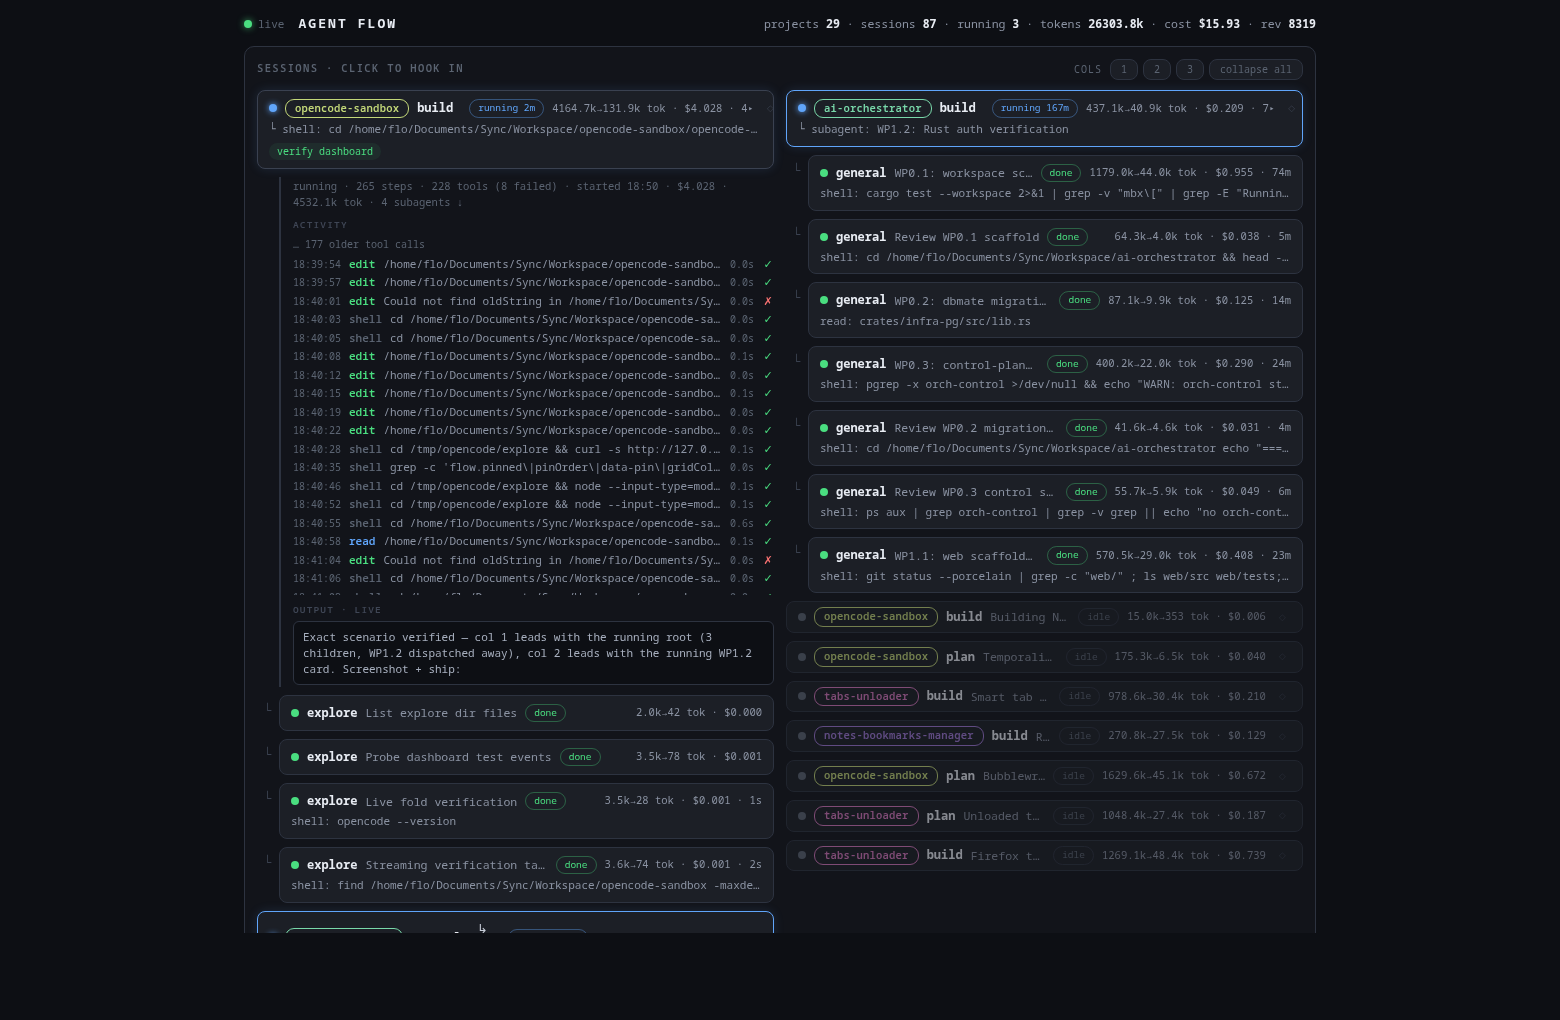
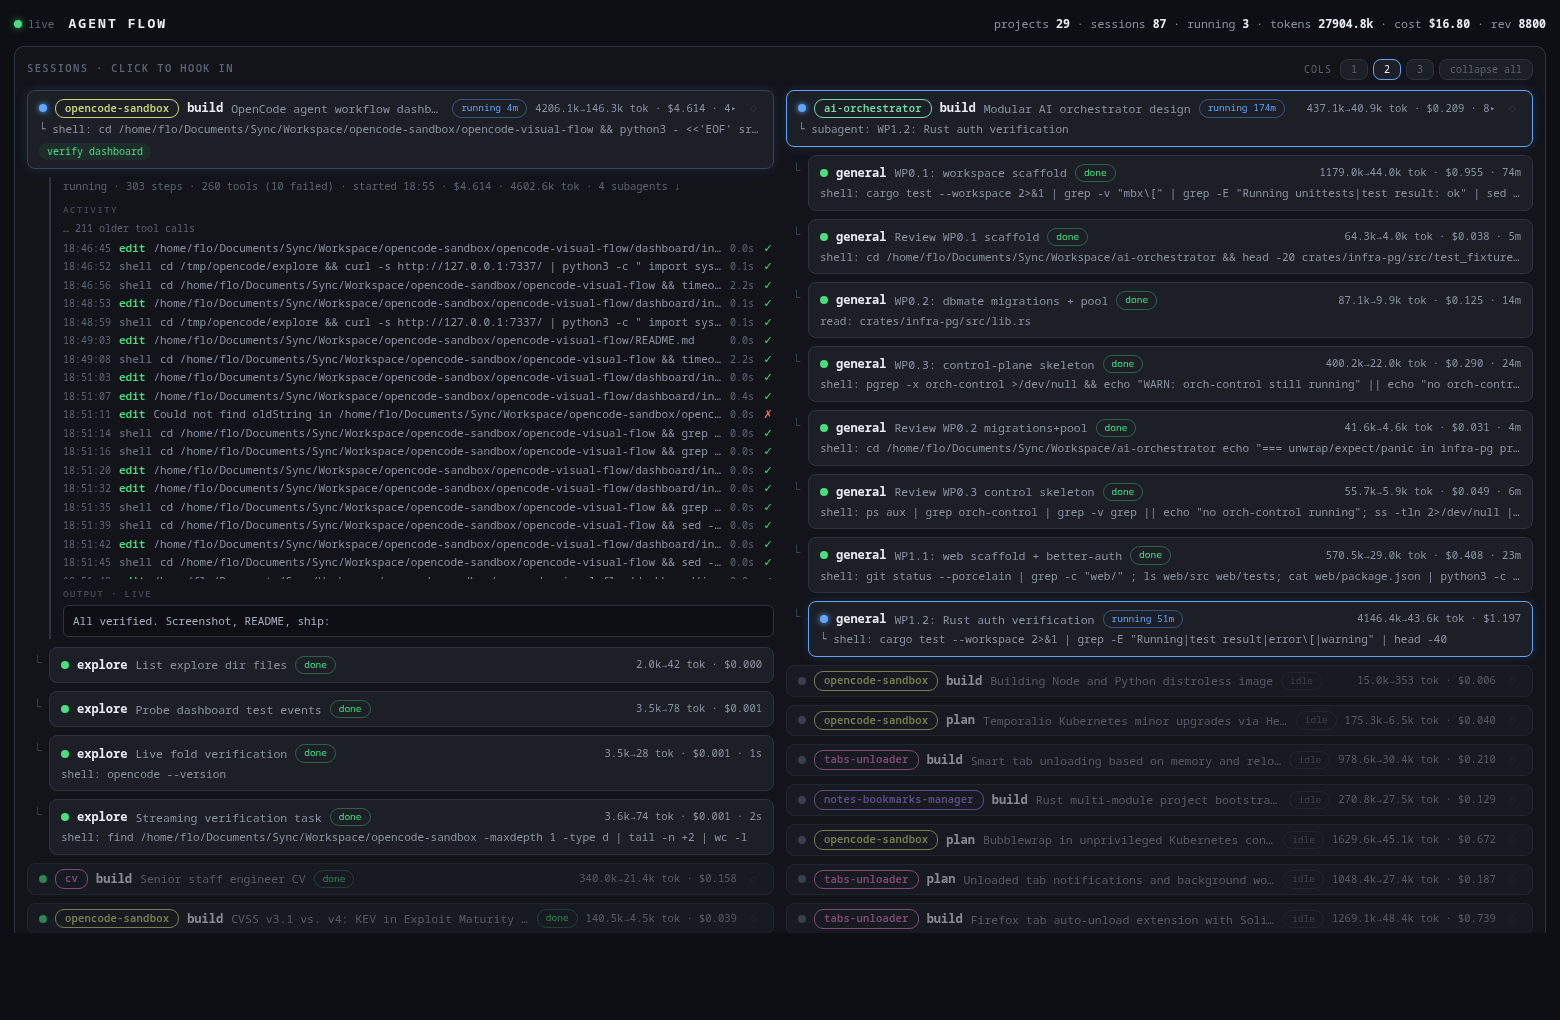
grid: tree-intact dispatch + LIVE runner cards (option 2)
Busy trees are dispatched whole, round-robin onto column tops — a running
subagent stays rendered under its parent instead of being cut into its
own card. Any column whose dispatched block has no running/waiting
session gets a LIVE runner card: a pointer to an uncovered live session
in global order (click = hook into that session's feed). Runners are
mirrors, not moves — the session keeps rendering inside its tree.
Removes the per-running-session card splitting from the previous round.

diff --git a/dashboard/index.html b/dashboard/index.html
@@ -58,6 +58,8 @@
   .chip.idle, .chip.queued { color:#5b6472; }
   .proj { flex:none; font-size:10.5px; font-weight:600; padding:1px 9px; border-radius:9px; border:1px solid;
   .tag { flex:none; font-size:9.5px; color:#8b93a3; border:1px solid #2d3340; border-radius:8px; padding:0 6px; }
+  .tag.live { color:#60a5fa; border-color:rgba(96,165,250,.5); font-weight:600; letter-spacing:.08em; }
+  .row.runner { border-color:#60a5fa; box-shadow:0 0 11px rgba(96,165,250,.14); }
           letter-spacing:.02em; cursor:pointer; max-width:180px; overflow:hidden; text-overflow:ellipsis; white-space:nowrap; }
   .proj.on { outline:1px solid currentColor; }
   .pbar { display:flex; align-items:center; gap:9px; margin-bottom:9px; color:#8b93a3; font-size:11px; }
@@ -399,53 +401,24 @@ function renderList() {
   const chunks = []
   let compactUsed = 0, hiddenOld = 0
 
-  // Split a busy tree into dispatch cards: one per running/waiting session
-  // (session + its non-running descendants), cutting nested running sessions
-  // out as their own cards. Leftover units form the tree's residual chunk.
-  const collectCard = (n, depth) => {
-    const units = [{ n, depth, compact: false }]
-    const cards = []
-    let attached = 0
-    for (const c of (kids.get(n.id) ?? []).slice().sort((a, b) => (a.createdAt ?? 0) - (b.createdAt ?? 0))) {
-      if (isBusyN(c)) {
-        const r = collectCard(c, 0)
-        cards.push(r.units, ...r.cards)
-      } else {
-        const r = collectCard(c, depth + 1)
-        units.push(...r.units)
-        cards.push(...r.cards)
-        attached++
-      }
-    }
-    units[0] = { ...units[0], kidsShown: attached }
-    return { units, cards }
-  }
-  const pushChunk = (units, extra) => {
-    if (!units.length) return
-    const openFeed = units.some(u => expanded.has(u.n.id))
-    const detached = !!extra?.detached
-    chunks.push({
-      units: units.map(u => ({ ...u, detached })),
-      weight: units.length + (openFeed ? 10 : 0),
-      ...extra,
-    })
-  }
-
+  // Whole-tree chunks: a tree (root + all subagents) is the dispatch unit and
+  // never splits across columns. Trees that are pinned or contain live
+  // sessions are dispatched round-robin onto column tops; leftover live
+  // sessions surface as runner cards on columns without live content.
   for (const r of ordered) {
     if (treeFull(r)) {
-      if (isBusyN(r)) {
-        const res = collectCard(r, 0)
-        pushChunk(res.units, { special: true })                    // root card (+ non-running descendants)
-        for (const card of res.cards) pushChunk(card, { special: true, detached: true })
-      } else {
-        const res = collectCard(r, 0)
-        if (res.cards.length) {
-          pushChunk(res.units)                                     // residual: root + non-running branches
-          for (const card of res.cards) pushChunk(card, { special: true, detached: true })
-        } else {
-          pushChunk(res.units)
-        }
+      const units = []
+      const walk = (n, depth) => {
+        units.push({ n, depth, compact: false })
+        for (const c of (kids.get(n.id) ?? []).slice().sort((a, b) => (a.createdAt ?? 0) - (b.createdAt ?? 0))) walk(c, depth + 1)
       }
+      walk(r, 0)
+      const openFeed = units.some(u => expanded.has(u.n.id))
+      chunks.push({
+        units,
+        weight: units.length + (openFeed ? 10 : 0),
+        special: pinSet.has(r.id) || isBusyN(r),
+      })
     } else if (showAllOld || compactUsed < COMPACT_CAP) {
       chunks.push({ units: [{ n: r, depth: 0, compact: true }], weight: 1 })
       compactUsed++
@@ -465,8 +438,29 @@ function renderList() {
   const specials = chunks.filter(c => c.special)
   const rest = chunks.filter(c => !c.special)
 
-  const cols = Array.from({ length: colCount }, () => ({ units: [] }))
-  specials.forEach((ch, j) => cols[j % colCount].units.push(...ch.units))
+  const cols = Array.from({ length: colCount }, () => ({ units: [], live: false }))
+  specials.forEach((ch, j) => {
+    const col = cols[j % colCount]
+    col.units.push(...ch.units)
+    if (ch.units.some(u => isBusyN(u.n))) col.live = true
+  })
+
+  // live runners: a column whose dispatched block has no running/waiting
+  // session gets a pointer card for an uncovered live session (the session
+  // itself stays rendered inside its tree in the column that tree leads)
+  const leads = new Set()
+  for (const col of cols) {
+    for (const u of col.units) {
+      if (isBusyN(u.n)) { leads.add(u.n.id); break }
+    }
+  }
+  const candidates = specials
+    .flatMap(ch => ch.units.filter(u => isBusyN(u.n)).map(u => u.n))
+    .filter(n => !leads.has(n.id))
+  const gaps = cols.filter(c => !c.live)
+  for (let i = 0; i < gaps.length && i < candidates.length; i++) {
+    gaps[i].units.unshift({ n: candidates[i], depth: 0, compact: false, runner: true })
+  }
 
   if (rest.length) {
     const runs = Math.min(colCount, rest.length)
@@ -506,11 +500,11 @@ function renderList() {
 }
 
 function rowHTML(u, kids) {
-  const { n, depth, compact, detached } = u
+  const { n, depth, compact, runner } = u
   const open = expanded.has(n.id)
   const color = STATUS_COLOR[n.status] ?? "#5b6472"
   const busy = isBusy(n)
-  const childRows = typeof u.kidsShown === "number" ? u.kidsShown : (kids.get(n.id) ?? []).length
+  const childRows = (kids.get(n.id) ?? []).length
   const dur = durOf(n)
   const durTxt = dur != null ? (dur > 60_000 ? Math.round(dur / 60_000) + "m" : Math.round(dur / 1000) + "s") : ""
   const isPinned = pinned.includes(n.id)
@@ -520,7 +514,7 @@ function rowHTML(u, kids) {
     : ""
   const pname = n.dir ? basename(n.dir) : "unknown"
   const pcol = projectColor(pname)
-  const subChip = detached && depth === 0 ? `<span class="tag" title="running subagent dispatched to this column">↳ sub</span>` : ""
+  const liveChip = u.runner ? `<span class="tag live" title="live session dispatched to another column — click to hook in here">LIVE</span>` : ""
   const proj = depth === 0
     ? `<span class="proj ${projectFilter === (n.dir ?? "") ? "on" : ""}" data-proj="${esc(n.dir ?? "")}" ` +
       `style="color:${pcol};border-color:${pcol}55" title="${esc(n.dir ?? "unknown project")} — click to filter">${esc(short(pname, 24))}</span>`
@@ -531,7 +525,7 @@ function rowHTML(u, kids) {
     proj +
     `<b>${esc(agentLabel(n))}</b>` +
     `<span class="title" title="${esc(titleOf(n))}">${esc(short(titleOf(n), 56))}</span>` +
-    subChip +
+    liveChip +
     `<span class="chip ${esc(n.status)}">${esc(n.status)}${durTxt && busy ? " " + durTxt : ""}</span>` +
     `<span class="meta">${kfmt(n.tokens?.input ?? 0)}→${kfmt(n.tokens?.output ?? 0)} tok · $${(n.cost ?? 0).toFixed(3)}${compact ? "" : durTxt && !busy ? " · " + durTxt : ""}${childRows ? " · " + childRows + "▸" : ""}</span>` +
     pinBtn +
@@ -549,7 +543,7 @@ function rowHTML(u, kids) {
   }
 
   const unit = `<div class="unit">` +
-    `<div class="row ${busy ? "busy" : ""} ${compact ? "compact" : ""} ${open ? "open" : ""} ${isPinned && depth === 0 ? "pinned" : ""} ${depth ? "indent" : ""}" data-toggle="${esc(n.id)}">` +
+    `<div class="row ${busy ? "busy" : ""} ${compact ? "compact" : ""} ${open ? "open" : ""} ${runner ? "runner" : ""} ${isPinned && depth === 0 ? "pinned" : ""} ${depth ? "indent" : ""}" data-toggle="${esc(n.id)}">` +
     inner + `</div>` +
     (open ? feedHTML(n, kids) : "") +
     `</div>`

diff --git a/README.md b/README.md
@@ -11,7 +11,7 @@ One OpenCode plugin, zero build step. The plugin runs inside the OpenCode server
 
 ## What it shows
 
-- **Sessions grid** — one configurable grid (1/2/3 columns, persisted). Active sessions are **dispatched round-robin onto the column tops** (so every column leads with a live session when there are enough), then the remaining list fills each column as a contiguous run: running/waiting first (never truncated), then recently active, then older sessions as compact dimmed cards. Subagents render indented under their parent with the spawn (`└`) marker; a session never spans two columns.
+- **Sessions grid** — one configurable grid (1/2/3 columns, persisted). Busy trees are **dispatched whole, round-robin onto the column tops**; any column that would still lack live content gets a **`LIVE` runner card** — a pointer to an uncovered running session (click it to hook into that feed) — while the session stays rendered inside its tree. The remaining list fills each column as a contiguous run: running/waiting first (never truncated), then recently active, then older sessions as compact dimmed cards. Subagents render indented under their parent with the spawn (`└`) marker; a session never spans two columns.
 - **Pinning** — every root card has a pin toggle (`◇`/`◆`): pinned sessions float to the top of the grid in pin order with an accent border, survive reloads, and render full-depth even when stale.
 - **Per-card glance** — status dot + chip, colored project badge (click to filter), agent, title, tokens and cost, duration, current action (the tool running right now), `flow_task` chips, reviewer/critic `⌘ VERDICT` and `⚑` lines, errors.
 - **Hook in** — click a session to expand a live feed in place:
